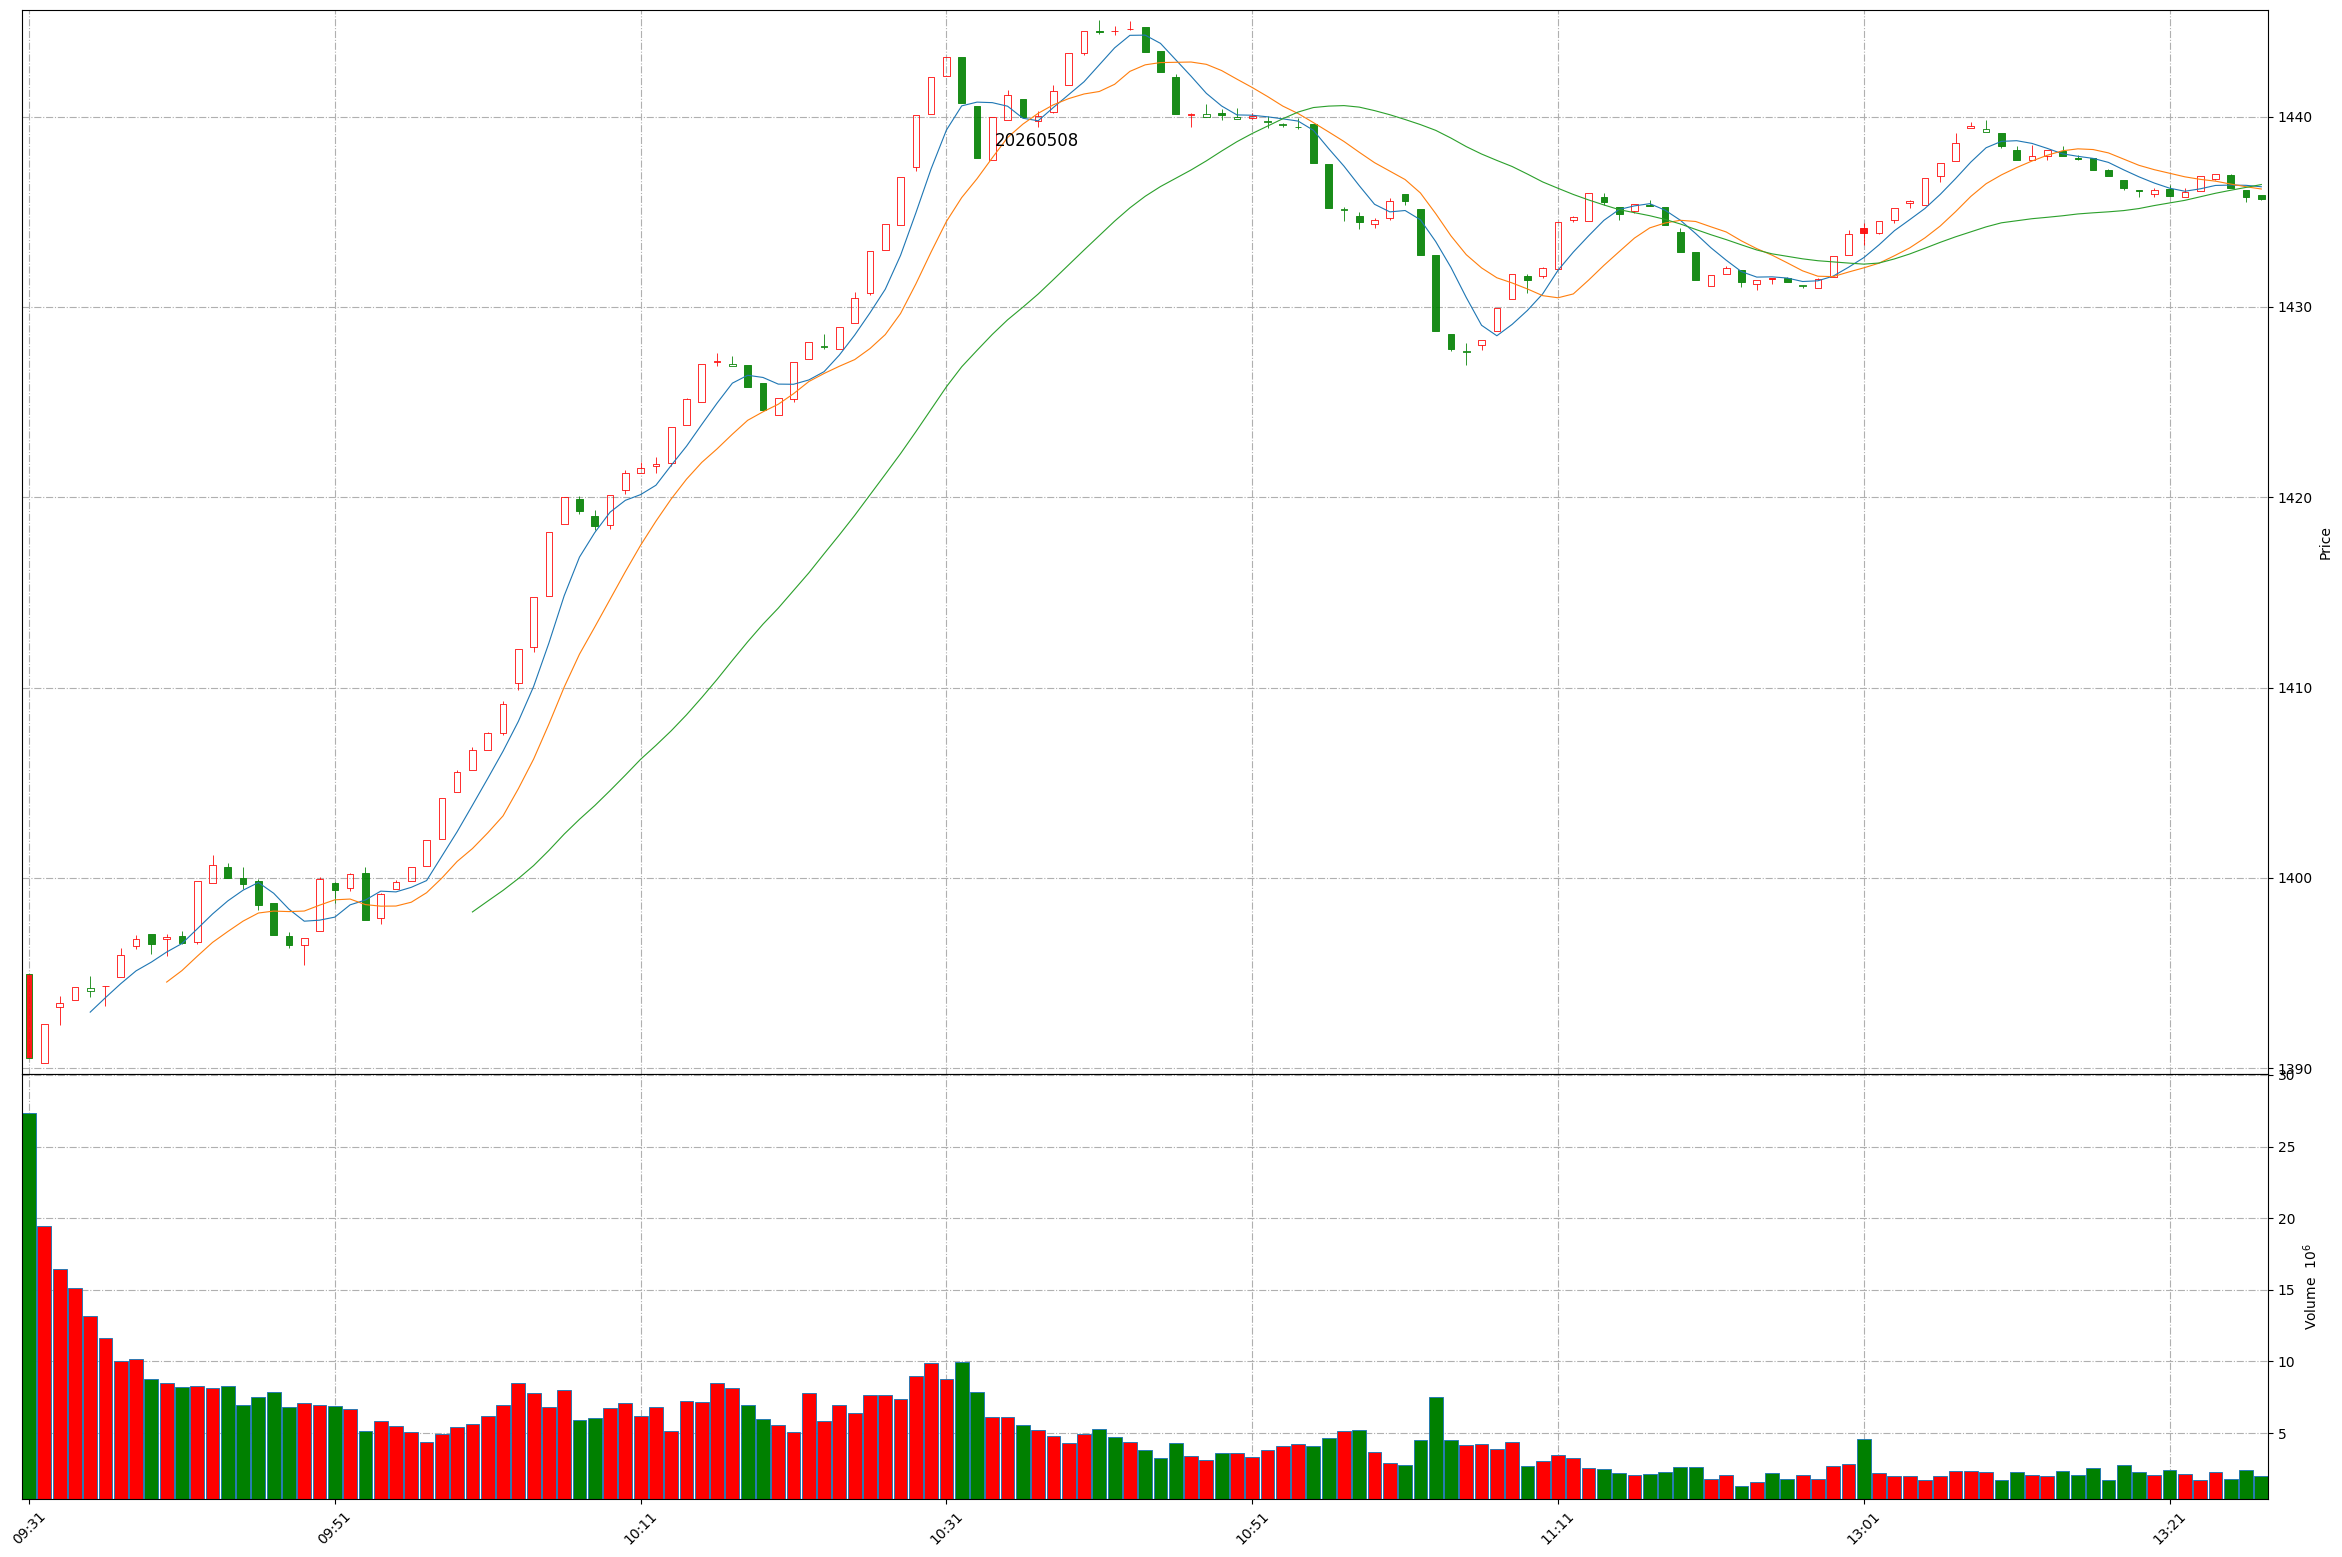
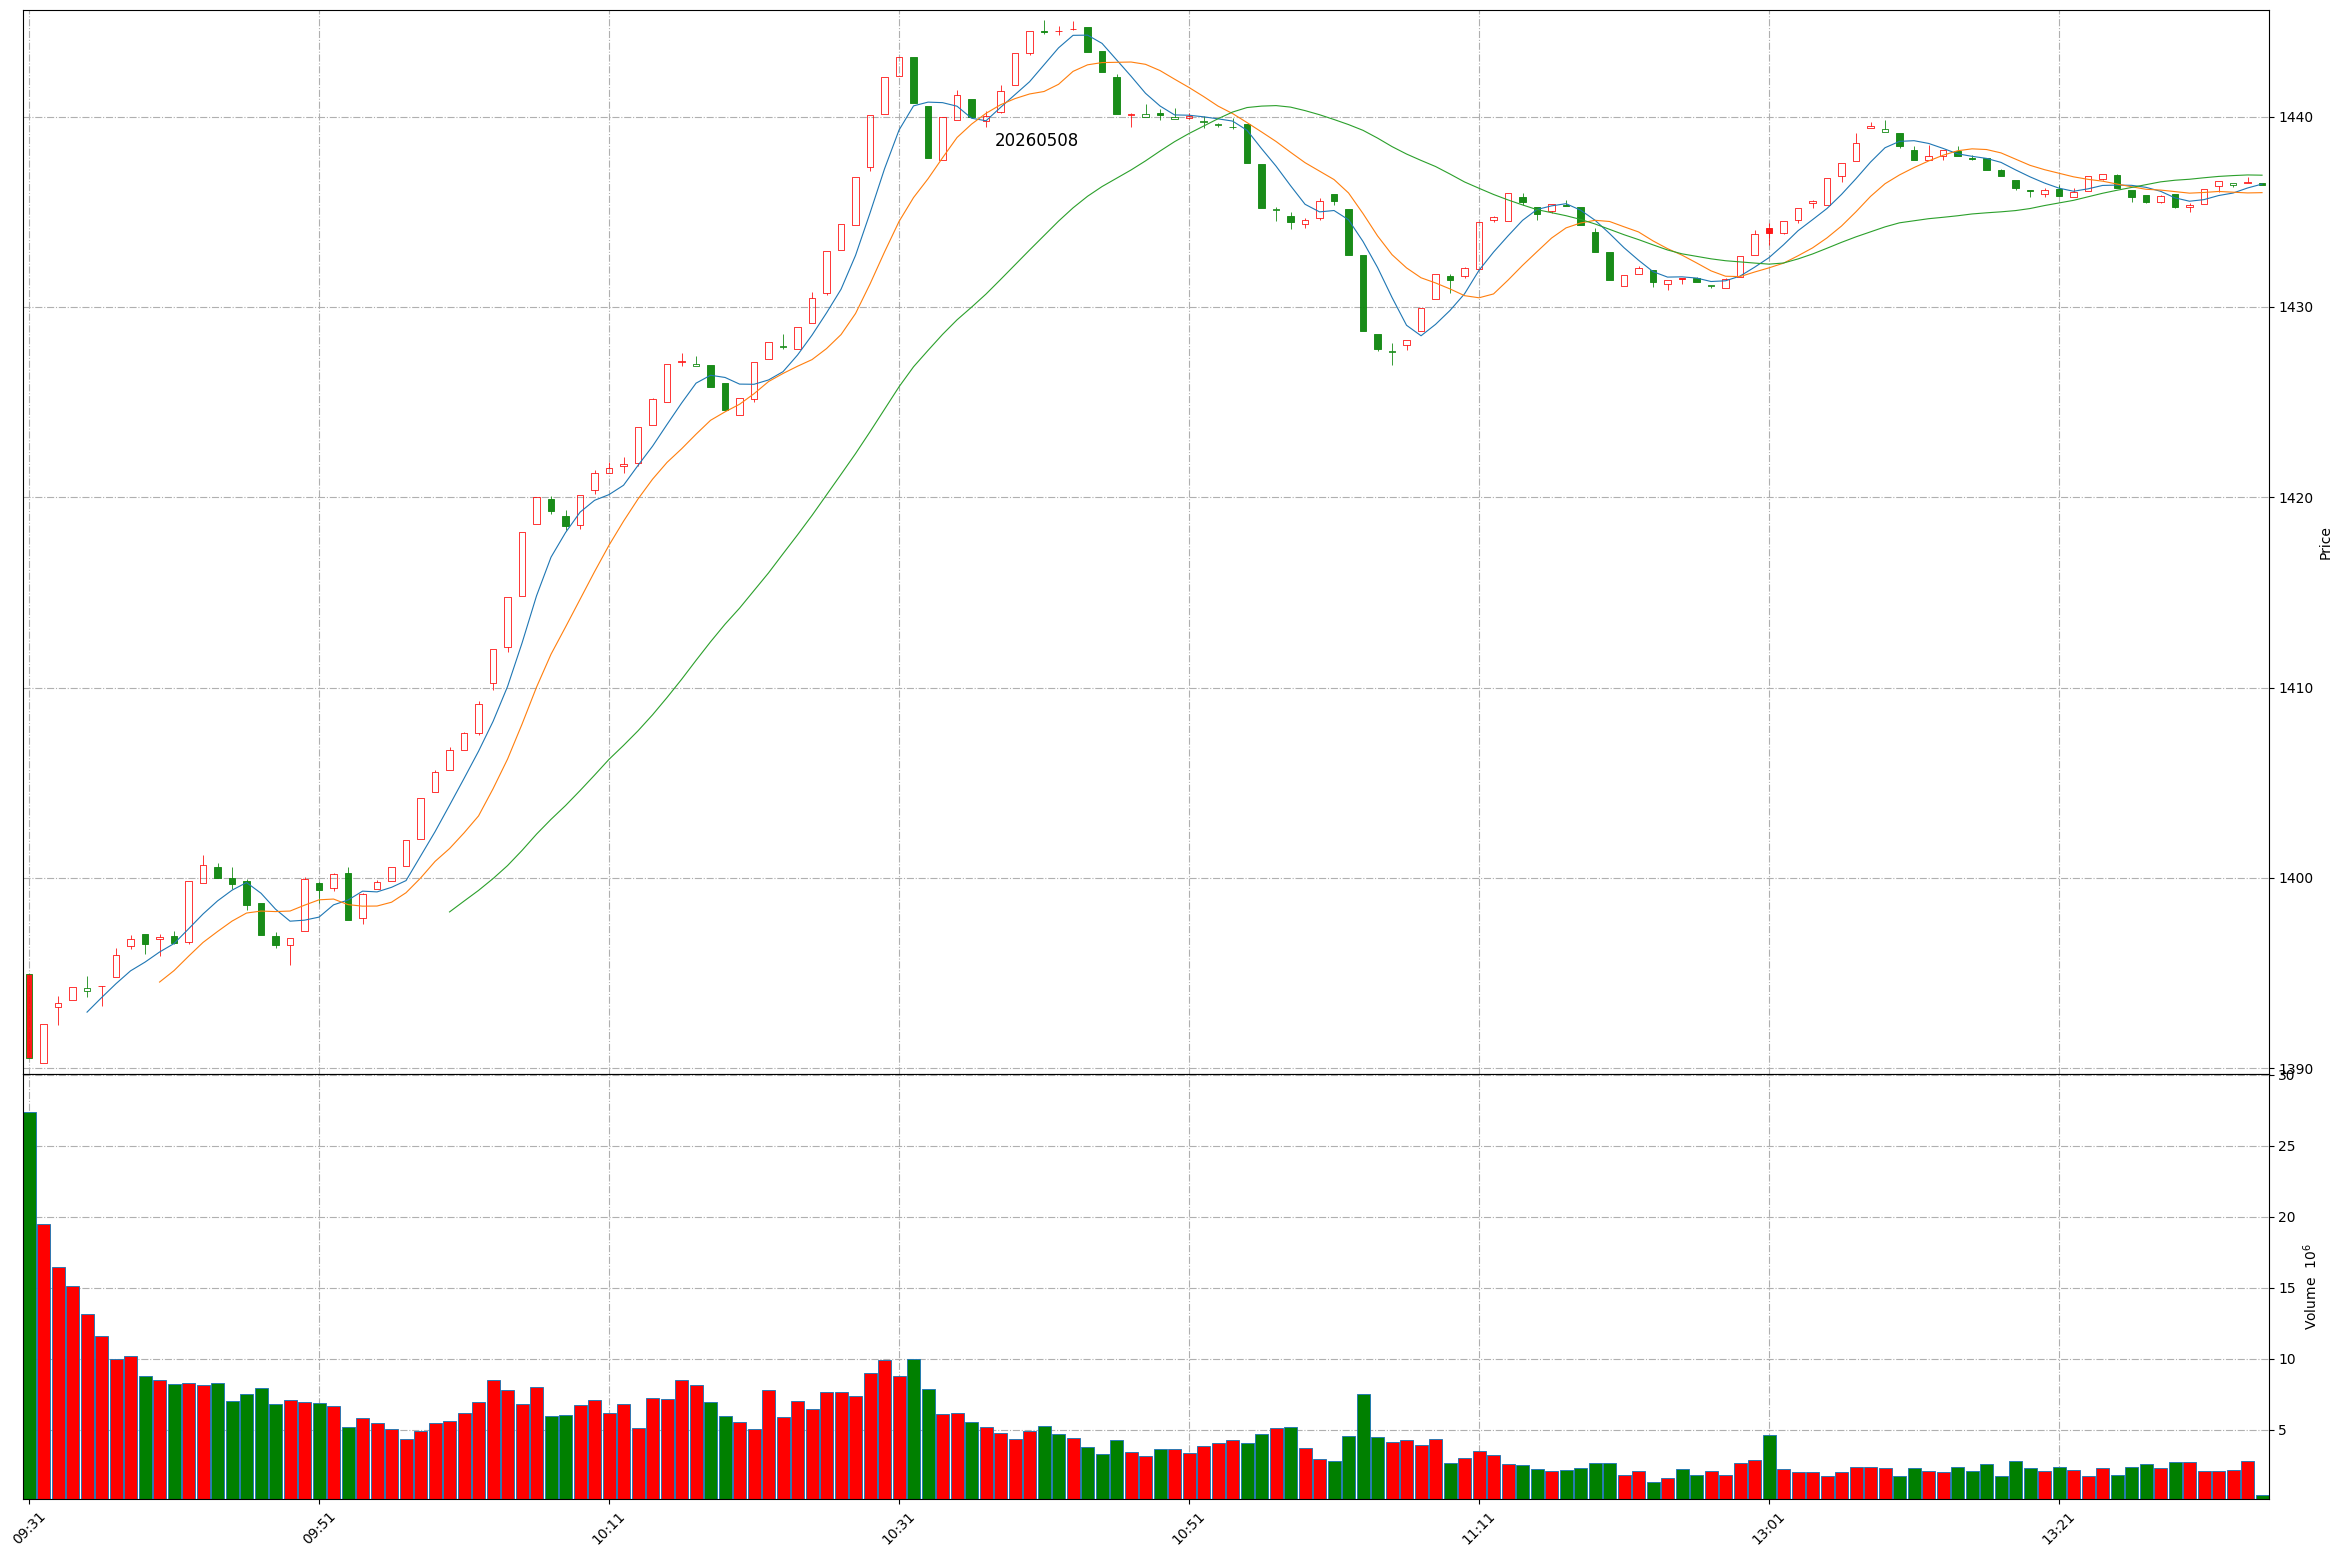
Github action update at 2026-05-08 13:34:33.

diff --git a/README.md b/README.md
@@ -1,11 +1,11 @@
 
 # Daily-A-share-market-quotes 每日 A 股指数（5min 更新）- 20260508
 
-### 上证指数 20260508 13:26
+### 上证指数 20260508 13:34
 ![](./fig/2026/5/20260508-sh000001.png)
 
-### 深证成指 20260508 13:26
+### 深证成指 20260508 13:34
 ![](./fig/2026/5/20260508-sz399001.png)
 
-### 北证50 20260508 13:26
+### 北证50 20260508 13:34
 ![](./fig/2026/5/20260508-bj899050.png)
